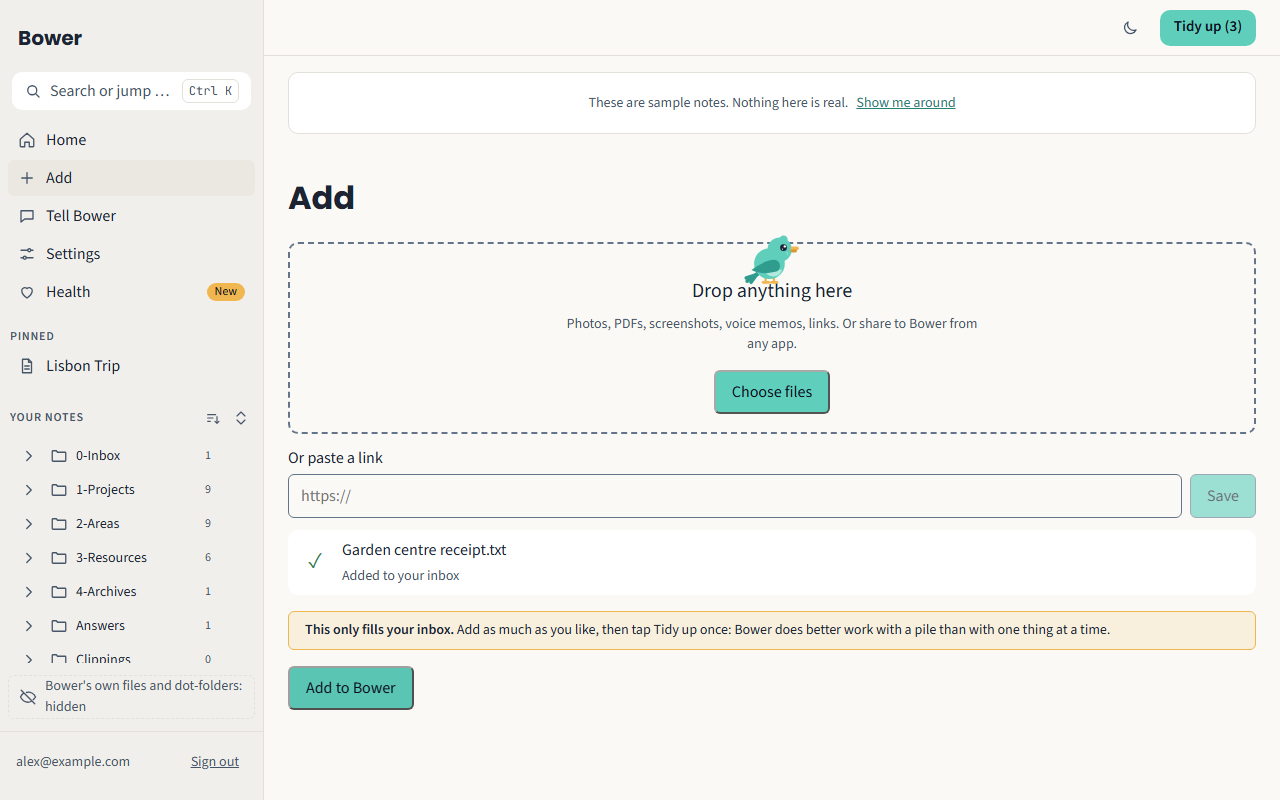
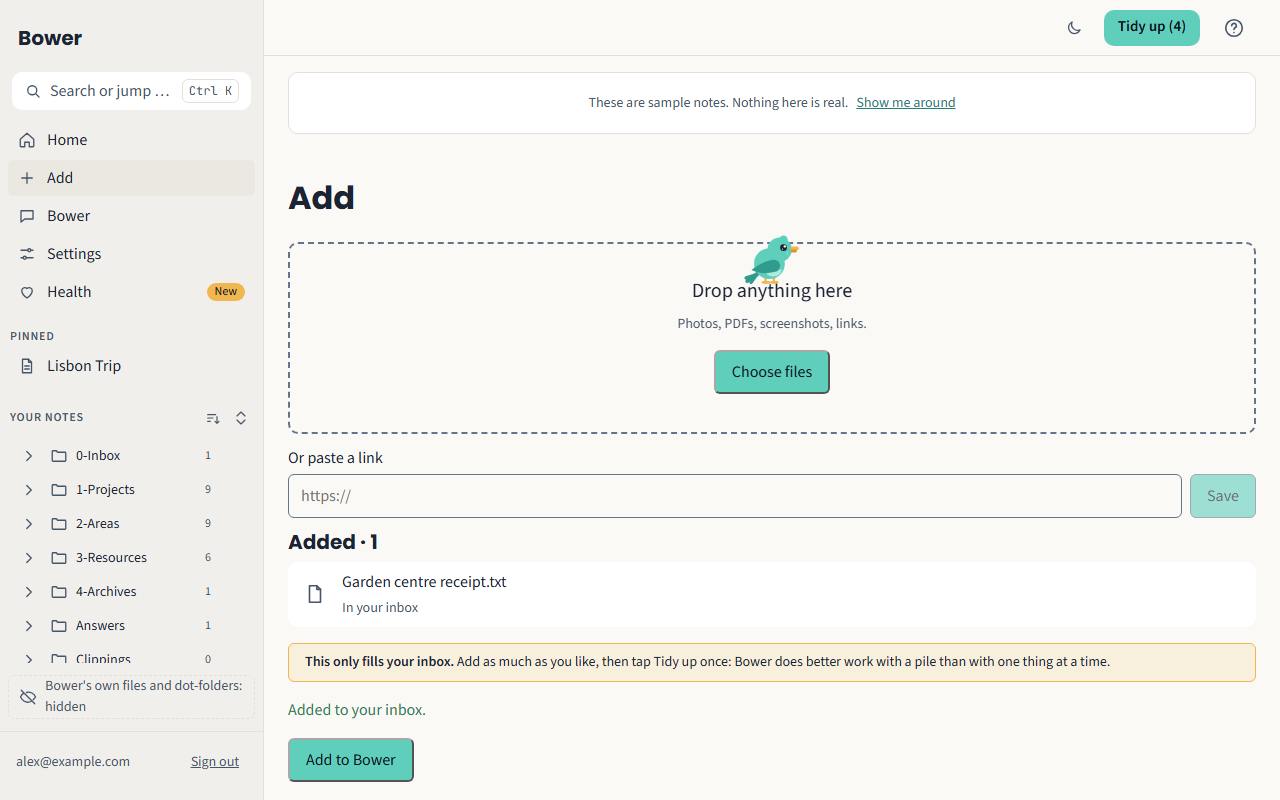
Take a photo: the camera door on devices with a camera, hidden otherwise (#406)
Closes #339

diff --git a/app/test/add-camera.test.ts b/app/test/add-camera.test.ts
@@ -1,0 +1,184 @@
+// @vitest-environment jsdom
+
+import { h, render } from 'preact';
+import { act } from 'preact/test-utils';
+import { afterEach, beforeEach, describe, expect, it, vi } from 'vitest';
+
+import type { Me, Vault } from '../src/api.js';
+import { hasVideoInput } from '../src/add-camera.js';
+import { setQueue } from '../src/add-queue-store.js';
+import type { DriveFile } from '../src/drive.js';
+
+// #339 (issue 21.7): the phone's "Take a photo" door only shows on a touch
+// device that reports an actual camera; `hasVideoInput` is the plain rule,
+// unit-tested directly below. The rest of this file wires it up the way
+// `routes/add.tsx` does, with a fake `navigator.mediaDevices`.
+
+describe('hasVideoInput', () => {
+  it('is false for an empty device list', () => {
+    expect(hasVideoInput([])).toBe(false);
+  });
+
+  it('is false when nothing is a videoinput', () => {
+    expect(
+      hasVideoInput([{ kind: 'audioinput' }, { kind: 'audiooutput' }]),
+    ).toBe(false);
+  });
+
+  it('is true once a videoinput is in the list', () => {
+    expect(
+      hasVideoInput([{ kind: 'audioinput' }, { kind: 'videoinput' }]),
+    ).toBe(true);
+  });
+});
+
+const vault: Vault = {
+  folderId: 'FOLDER_ID',
+  inboxFolderId: 'FOLDER_ID',
+  name: 'Bower',
+};
+const me: Me = {
+  email: 'you@example.com',
+  vault,
+  quota: { used: 0, limit: 10 },
+  needsReauth: false,
+  hasApiKey: false,
+};
+const location = { path: '/add', route: vi.fn() };
+const listFolder = vi.fn<(folderId: string) => Promise<DriveFile[]>>(() =>
+  Promise.resolve([]),
+);
+
+vi.mock('preact-iso', () => ({ useLocation: () => location }));
+vi.mock('../src/session.js', () => ({ useSession: () => ({ me }) }));
+vi.mock('../src/online.js', () => ({
+  useOnline: () => true,
+  offlineReason: () => '',
+}));
+vi.mock('../src/drive.js', () => ({
+  listFolder,
+  upload: vi.fn(),
+  createTextFile: vi.fn(),
+}));
+vi.mock('../src/vault-store.js', async (importOriginal) => ({
+  ...(await importOriginal<typeof import('../src/vault-store.js')>()),
+  useVault: () => ({ refresh: vi.fn() }),
+}));
+// Add's hint carries the Tidy up button (#320), which reads the run store.
+vi.mock('../src/run-store.js', async (importOriginal) => ({
+  ...(await importOriginal<typeof import('../src/run-store.js')>()),
+  useRun: () => ({ phase: 'idle', tidyUp: vi.fn(), openSheet: vi.fn() }),
+}));
+
+const { Add } = await import('../src/routes/add.js');
+
+let root: HTMLElement;
+
+/** Marks `window` as a touch device (`'ontouchstart' in window`), the way
+ * `isTouchDevice()` reads it, and stubs `navigator.mediaDevices` with
+ * `enumerateDevices()` resolving to `devices`. `undefined` leaves
+ * `mediaDevices` itself missing, as a browser without the API would. */
+function stubDevices(devices: { kind: string }[] | undefined): void {
+  Object.defineProperty(window, 'ontouchstart', {
+    value: null,
+    configurable: true,
+  });
+  Object.defineProperty(navigator, 'mediaDevices', {
+    value:
+      devices === undefined
+        ? undefined
+        : { enumerateDevices: () => Promise.resolve(devices) },
+    configurable: true,
+  });
+}
+
+async function flush(): Promise<void> {
+  await act(async () => {
+    await new Promise((resolve) => setTimeout(resolve, 0));
+  });
+}
+
+function cameraDoor(): HTMLButtonElement | undefined {
+  const doors = root.querySelector('.add-doors');
+  return Array.from(doors?.querySelectorAll('button') ?? []).find((b) =>
+    (b.textContent ?? '').startsWith('Take a photo'),
+  );
+}
+
+describe('Add: the camera door', () => {
+  beforeEach(() => {
+    setQueue([]);
+    root = document.createElement('div');
+    document.body.append(root);
+  });
+
+  afterEach(() => {
+    void act(() => {
+      render(null, root);
+    });
+    root.remove();
+    Reflect.deleteProperty(window, 'ontouchstart');
+    Reflect.deleteProperty(navigator, 'mediaDevices');
+    vi.clearAllMocks();
+  });
+
+  // jsdom's own `window` always answers `'ontouchstart' in window` with
+  // `true` (an inherited IDL attribute, present whether or not a real
+  // touch device would define it), so the "not a touch device at all"
+  // branch of `isTouchDevice()` is not reachable from here; the other
+  // three rows below still prove the rule out fully.
+
+  it('stays hidden on a touch device with no camera', async () => {
+    stubDevices([{ kind: 'audioinput' }]);
+    void act(() => {
+      render(h(Add, {}), root);
+    });
+    await flush();
+    expect(cameraDoor()).toBeUndefined();
+  });
+
+  it('stays hidden without a MediaDevices API at all', async () => {
+    stubDevices(undefined);
+    void act(() => {
+      render(h(Add, {}), root);
+    });
+    await flush();
+    expect(cameraDoor()).toBeUndefined();
+  });
+
+  it('shows on a touch device that reports a camera', async () => {
+    stubDevices([{ kind: 'audioinput' }, { kind: 'videoinput' }]);
+    void act(() => {
+      render(h(Add, {}), root);
+    });
+    await flush();
+    const door = cameraDoor();
+    expect(door).toBeDefined();
+    expect(door?.textContent).toContain('A receipt, a sign, a page of a book');
+  });
+
+  it('opens the capture input when pressed, and the photo joins the queue like any file', async () => {
+    stubDevices([{ kind: 'videoinput' }]);
+    void act(() => {
+      render(h(Add, {}), root);
+    });
+    await flush();
+    const door = cameraDoor();
+    if (door === undefined) throw new Error('Take a photo door missing');
+    const input = root.querySelector(
+      'input[type="file"][capture]',
+    ) as HTMLInputElement;
+    const click = vi.spyOn(input, 'click');
+    door.click();
+    expect(click).toHaveBeenCalledOnce();
+
+    const file = new File(['x'], 'photo.jpg', { type: 'image/jpeg' });
+    Object.defineProperty(input, 'files', { value: [file] });
+    void act(() => {
+      input.dispatchEvent(new Event('change', { bubbles: true }));
+    });
+    expect(root.querySelector('.add-queue-name')?.textContent).toBe(
+      'photo.jpg',
+    );
+  });
+});

diff --git a/app/src/add-camera.ts b/app/src/add-camera.ts
@@ -1,0 +1,54 @@
+/**
+ * Whether Add's "Take a photo" door shows at all (#339, issue 21.7): a
+ * touch device that reports at least one camera; hidden everywhere else,
+ * including a desktop with a touchscreen but no webcam. `hasVideoInput`
+ * is the rule itself, plain and unit-tested; `useHasCamera` is the async
+ * wiring around `navigator.mediaDevices.enumerateDevices()` that feeds
+ * it, defaulting to hidden until that resolves (so the door never flashes
+ * on then off).
+ */
+
+import { useEffect, useState } from 'preact/hooks';
+
+/** A `MediaDeviceInfo`, loosened to what the rule actually reads (real
+ * objects and test fixtures alike). */
+export interface DeviceKind {
+  kind: string;
+}
+
+/** The rule itself: at least one `videoinput` device in the list. */
+export function hasVideoInput(devices: readonly DeviceKind[]): boolean {
+  return devices.some((device) => device.kind === 'videoinput');
+}
+
+export function isTouchDevice(): boolean {
+  return typeof window !== 'undefined' && 'ontouchstart' in window;
+}
+
+/** `false` until proven otherwise: no touch, no `mediaDevices`, a
+ * rejected `enumerateDevices()`, and simply no camera all read the same,
+ * "hidden" (spec 21.7). */
+export function useHasCamera(): boolean {
+  const [hasCamera, setHasCamera] = useState(false);
+
+  useEffect(() => {
+    if (!isTouchDevice()) return;
+    const mediaDevices =
+      typeof navigator === 'undefined' ? undefined : navigator.mediaDevices;
+    if (mediaDevices?.enumerateDevices === undefined) return;
+    let cancelled = false;
+    mediaDevices
+      .enumerateDevices()
+      .then((devices) => {
+        if (!cancelled) setHasCamera(hasVideoInput(devices));
+      })
+      .catch(() => {
+        // Left as hidden — the same as no camera.
+      });
+    return () => {
+      cancelled = true;
+    };
+  }, []);
+
+  return hasCamera;
+}

diff --git a/app/src/routes/add.tsx b/app/src/routes/add.tsx
@@ -2,6 +2,7 @@ import { useEffect, useRef, useState } from 'preact/hooks';
 import type { JSX } from 'preact';
 import { useLocation } from 'preact-iso';
 
+import { useHasCamera } from '../add-camera.js';
 import {
   getQueue,
   setQueue,
@@ -96,10 +97,6 @@ export async function expandPicks(
   return files;
 }
 
-function isTouchDevice(): boolean {
-  return typeof window !== 'undefined' && 'ontouchstart' in window;
-}
-
 /** The Added queue's type icon (#334): a picture, or a plain file for
  * everything else — the row's name after any renaming still ends in the
  * same extension, so this reads it straight off `item.name`. */
@@ -135,6 +132,7 @@ export function Add() {
   const { route } = useLocation();
   const { index, refresh } = useVault();
   const online = useOnline();
+  const hasCamera = useHasCamera();
   const inboxFolderId = me?.vault?.inboxFolderId ?? null;
   const bowerFolderId = me?.vault?.folderId ?? null;
   // Every folder id the app already knows under the Bower folder, at any
@@ -418,7 +416,6 @@ export function Add() {
     void runQueue([item]);
   }
 
-  const touch = isTouchDevice();
   const linkDisabled = inboxFolderId === null || !online;
   const driveDisabled = inboxFolderId === null || !online || pickerOpening;
 
@@ -450,7 +447,7 @@ export function Add() {
        * the sidebar). Both live in the DOM at once so neither needs its own
        * copy of the file inputs or the disabled/online rules. */}
       <div class="add-doors">
-        {touch && (
+        {hasCamera && (
           <button
             type="button"
             class="add-door"

diff --git a/app/e2e/flows.e2e.ts b/app/e2e/flows.e2e.ts
@@ -226,6 +226,28 @@ test('Add: three doors on the phone, the drop zone on desktop (#333)', async ({
   await shot(page, testInfo, 'add-doors');
 });
 
+test('Add: the camera door opens a capture input (#339)', async ({
+  page,
+}, testInfo) => {
+  await openHome(page);
+  await navigate(page, /^Add$/);
+
+  // The fake webcam (`playwright.config.ts`'s `--use-fake-device-for-
+  // media-stream`) is what makes the door show up here at all, on the
+  // phone project and every machine alike (issue 21.7's actual rule is
+  // unit-tested in `add-camera.test.ts`).
+  if (testInfo.project.name === 'desktop') {
+    await expect(page.locator('.add-doors')).toBeHidden();
+    return;
+  }
+
+  const door = page
+    .locator('.add-doors')
+    .getByRole('button', { name: /^Take a photo/ });
+  await expect(door).toBeVisible();
+  await expect(page.locator('input[type="file"][capture]')).toHaveCount(1);
+});
+
 test('Add puts a file in the inbox', async ({ page }, testInfo) => {
   await openHome(page);
   await navigate(page, /^Add$/);

diff --git a/app/playwright.config.ts b/app/playwright.config.ts
@@ -39,6 +39,10 @@ export default defineConfig({
     // screenshots.
     contextOptions: { reducedMotion: 'reduce' },
     trace: 'retain-on-failure',
+    // A fake webcam, so Add's "Take a photo" door (#339, issue 21.7) shows
+    // up the same way on every machine and in CI, never depending on
+    // whether the box actually running the tests has a camera.
+    launchOptions: { args: ['--use-fake-device-for-media-stream'] },
   },
   projects: [
     {
